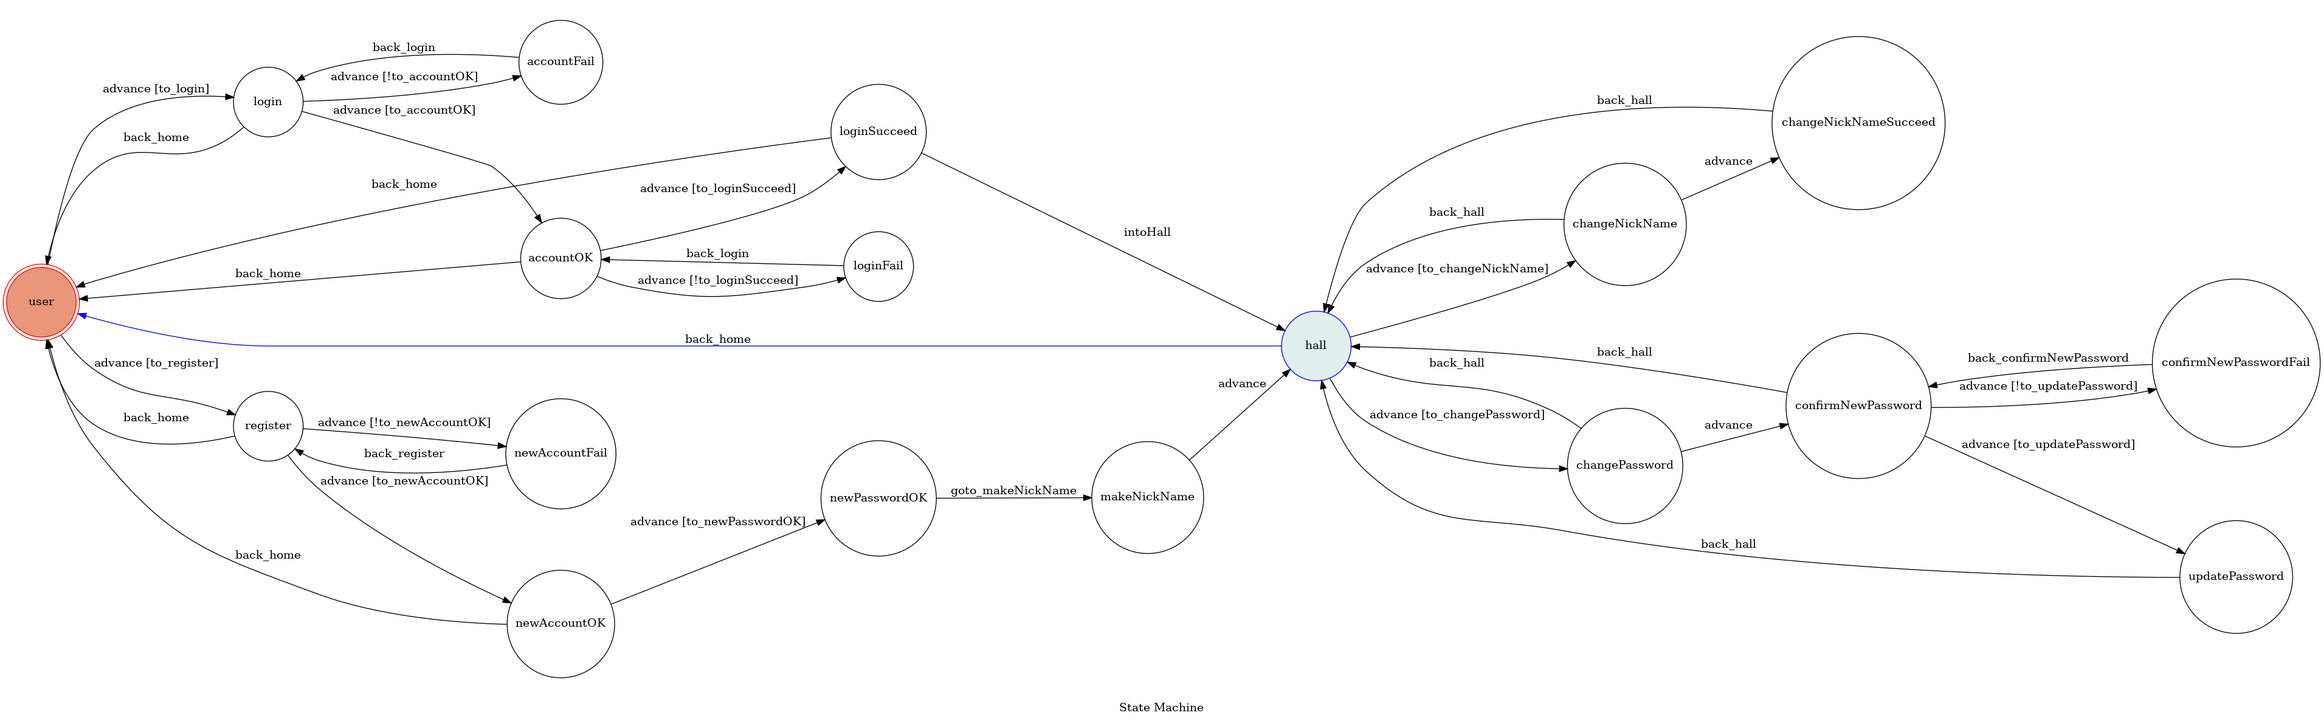
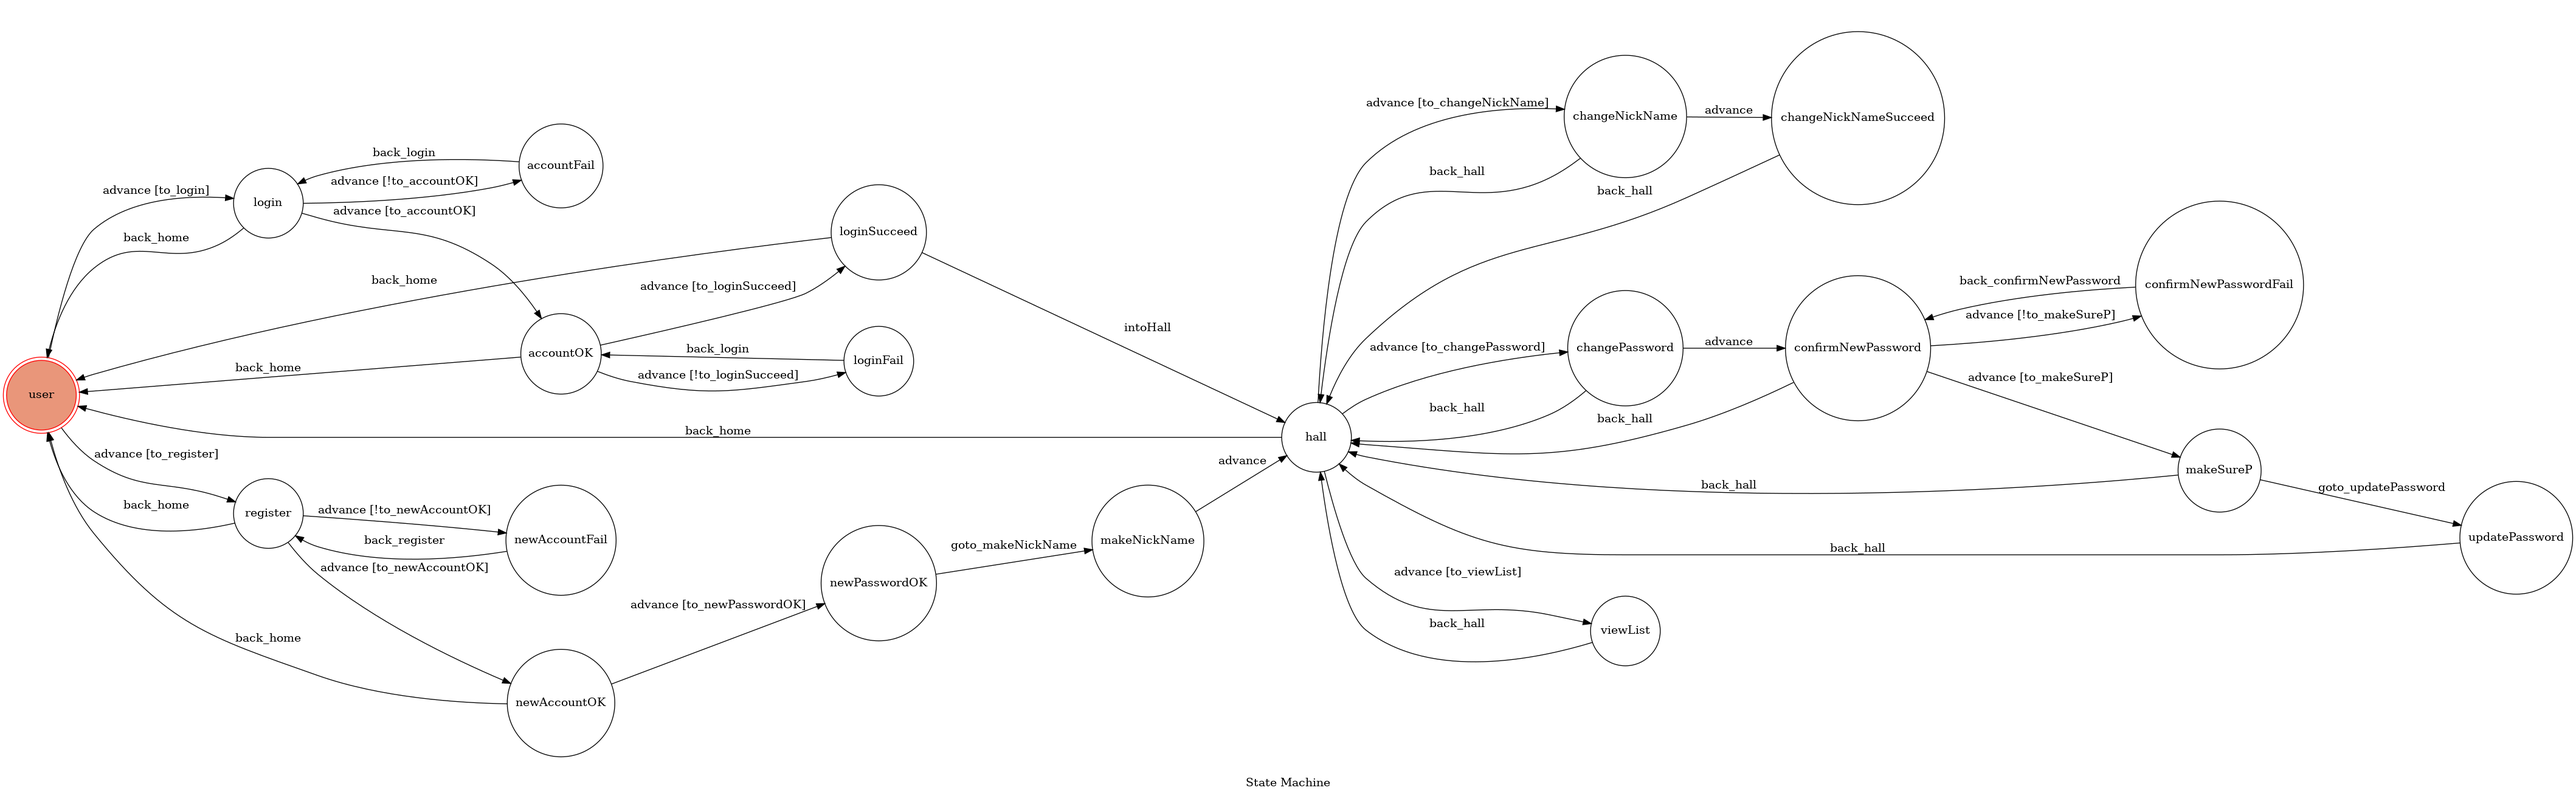
add book list

diff --git a/app.py b/app.py
@@ -1,7 +1,7 @@
 from bottle import route, run, request, abort, static_file
 
 from fsm import TocMachine
-from utils import send_text_message
+from utils import send_text_message, send_button_message, send_book_list
 
 
 VERIFY_TOKEN = "12399987"
@@ -23,8 +23,10 @@ machine = TocMachine(
         'changeNickNameSucceed',
         'changePassword',
         'confirmNewPassword',
+        'makeSureP',
         'updatePassword',
         'confirmNewPasswordFail',
+        'viewList',
     ],
     transitions=[
         {
@@ -46,9 +48,18 @@ machine = TocMachine(
                 'changeNickNameSucceed',
                 'changePassword',
                 'confirmNewPassword',
+                'makeSureP',
                 'updatePassword',
+                'viewList',
             ],
             'dest' : 'hall'
+        },
+        #-- view book list ------------
+        {
+            'trigger' : 'advance',
+            'source' : 'hall',
+            'dest' : 'viewList',
+            'conditions' : 'to_viewList'
         },
         #-- change password -----------
         {
@@ -66,19 +77,24 @@ machine = TocMachine(
         {
             'trigger' : 'advance',
             'source' : 'confirmNewPassword',
-            'dest' : 'updatePassword',
-            'conditions' : 'to_updatePassword'
+            'dest' : 'makeSureP',
+            'conditions' : 'to_makeSureP'
         },
         {
             'trigger' : 'advance',
             'source' : 'confirmNewPassword',
             'dest' : 'confirmNewPasswordFail',
-            'unless' : 'to_updatePassword'
+            'unless' : 'to_makeSureP'
         },
         {
             'trigger' : 'back_confirmNewPassword',
             'source' : 'confirmNewPasswordFail',
             'dest' : 'confirmNewPassword',
+        },
+        {
+            'trigger' : 'goto_updatePassword',
+            'source' : 'makeSureP',
+            'dest' : 'updatePassword',
         },
         #-- change nickname -----------
         {
@@ -207,9 +223,11 @@ def setup_webhook():
     else:
         abort(403)
 
-
+post_cnt = 0
 @route("/webhook", method="POST")
 def webhook_handler():
+    global post_cnt
+    post_cnt += 1
     body = request.json
     print('\nFSM STATE: ' + machine.state)
     print('REQUEST BODY: ')
@@ -217,24 +235,13 @@ def webhook_handler():
 
     if body['object'] == "page":
         event = body['entry'][0]['messaging'][0]
-        text = event['message']['text']
-        sender_id = event['sender']['id']
-        if text.lower() == '!state':
-            send_text_message(sender_id, 'FSM SATTE = ' + machine.state)
-        elif text.lower() == '!who' :
-            if(machine.account == "") :
-                send_text_message(sender_id, "* not login *")
-            else :
-                msg = "Hi, %s (%s)" % (machine.nickname, machine.account)
-                send_text_message(sender_id, msg)
-        elif text.lower() == '!home':
-            machine.back_home(event)
-        elif text.lower() == '!hall' :
-            machine.back_hall(event)
-        else:
-            machine.advance(event)
+        if 'postback' in event  :
+            handle_postback(event)
+        else :
+            handle_text(event)
+        
 
-        print("\n\n----***-------***-----***----***----***---\n\n")
+        print("\n\n----***-------***-----***----***----***---  %d\n\n" % (post_cnt))
         return 'OK'
 
 
@@ -242,6 +249,38 @@ def webhook_handler():
 def show_fsm():
     machine.get_graph().draw('fsm.png', prog='dot', format='png')
     return static_file('fsm.png', root='./', mimetype='image/png')
+
+
+def handle_text(event) :
+    text = event['message']['text']
+    sender_id = event['sender']['id']
+    if text.lower() == '!state':
+        send_text_message(sender_id, 'FSM SATTE = ' + machine.state)
+    elif text.lower() == '!who' :
+        if(machine.account == "") :
+            send_text_message(sender_id, "* not login *")
+        else :
+            msg = "Hi, %s (%s)" % (machine.nickname, machine.account)
+            send_text_message(sender_id, msg)
+    elif text.lower() == '!home':
+        machine.back_home(event)
+    elif text.lower() == '!hall' :
+        machine.back_hall(event)
+    elif text.lower() == '!list' :
+        send_book_list(sender_id)
+    else:
+        machine.advance(event)
+
+
+def handle_postback(event) :
+    payload = event['postback']['payload'].split("/")
+    if payload[0] == 'MSP' :
+        if payload[1] == 'Yes' :
+            machine.goto_updatePassword(event)
+        else :
+            machine.back_hall(event)
+    elif False:
+        pass
 
 
 if __name__ == "__main__":

diff --git a/utils.py b/utils.py
@@ -40,7 +40,69 @@ def send_image_url(id, img_url):
         print("Unable to send image: \n" + response.text)
     return response
 
-"""
+
 def send_button_message(id, text, buttons):
-    pass
-"""
+    url = "{0}/me/messages?access_token={1}".format(GRAPH_URL, ACCESS_TOKEN)
+    payload = {
+        "recipient" : {"id": id},
+        "message" : {
+            "attachment" : {
+                "type" : "template",
+                "payload" : {
+                    "template_type" : "button",
+                    "text" : text,
+                    "buttons" : buttons
+                }
+            }
+        }
+    }
+    response = requests.post(url, json=payload)
+    if response.status_code != 200:
+        print("Unable to send button: \n" + response.text)
+    return response
+
+def send_book_list(id) :
+    url = "{0}/me/messages?access_token={1}".format(GRAPH_URL, ACCESS_TOKEN)
+    payload = {
+        "recipient" : {"id":id},
+        "message" : {
+            "attachment" : {
+                "type" : "template",
+                "payload" : {
+                    "template_type": "list",
+                    "top_element_style": "large",
+                    "elements": [
+                        {
+                            "title" : "Recommend",
+                            "subtitle" : "books recommended for you ~",
+                            "image_url" : "https://i.imgur.com/gcUT5vZ.png",
+                        },
+                        {
+                            "title" : "果青",
+                            "subtitle" : "果然我的青春戀愛喜劇搞錯了",
+                            "image_url" : "https://i.imgur.com/bLyJEYK.jpg",
+                            "buttons" : [
+                                {
+                                    "type" : "postback",
+                                    "title" : "ADD",
+                                    "payload" : "VBL/hamachi"
+                                }
+                            ]
+                        },
+                    ],
+                    "buttons" : [
+                        {
+                            "type" : "postback",
+                            "title" : "view more",
+                            "payload" : "VBS/more"
+                        }
+                    ]
+                }
+            }
+        }
+    }
+    response = requests.post(url, json=payload)
+    if response.status_code != 200:
+        print("Unable to send list: \n" + response.text)
+    return response
+

diff --git a/fsm.py b/fsm.py
@@ -2,7 +2,7 @@ from transitions.extensions import GraphMachine
 import pymysql
 from dbHandler import DBHandler
 
-from utils import send_text_message, send_image_url
+from utils import send_text_message, send_image_url, send_button_message, send_book_list
 
 
 class TocMachine(GraphMachine):
@@ -89,9 +89,14 @@ class TocMachine(GraphMachine):
         if event.get("message"):
             self.newPassword = event['message']['text']
 
-    def to_updatePassword(self, event) :
+    def to_makeSureP(self, event) :
         if event.get("message"):
             return self.newPassword == event['message']['text']
+
+    def to_viewList(self, event) :
+        if event.get("message"):
+            text = event['message']['text']
+            return text.lower() == 'recommend'
 
 
 #----------------------------------------------------------------#
@@ -183,6 +188,24 @@ class TocMachine(GraphMachine):
         responese = send_text_message(sender_id, msg)
         self.back_confirmNewPassword(event)
 
+    def on_enter_makeSureP(self, event) :
+        sender_id = event['sender']['id']
+        text = "make sure change password"
+        buttons = [
+            {
+                "type" : "postback",
+                "title" : "Yes",
+                "payload" : "MSP/Yes"
+            },
+            {
+                "type" : "postback",
+                "title" : "No",
+                "payload" : "MSP/No"
+            }
+        ]
+        send_button_message(sender_id, text, buttons)
+        
+
     def on_enter_updatePassword(self, event) :
         db = self.accessDB()
         db.updatePassword(self.account, self.newPassword)
@@ -191,6 +214,9 @@ class TocMachine(GraphMachine):
         responese = send_text_message(sender_id, msg)
         self.back_hall(event)
 
+    def on_enter_viewList(self, event) :
+        sender_id = event['sender']['id']
+        send_book_list(sender_id)
     
 
 

diff --git a/README.md b/README.md
@@ -96,9 +96,14 @@ The initial state is set to `user`.
 
 * **confirmNewPassword**
 	* ask for input new password again 
-		* `if the user_input == new password` : go to state **updatePassword**
+		* `if the user_input == new password` : go to state **makeSureP**
 		* `else` : go to state **confirmNewPasswordFail** and reply "WRONG :(", 
 			       then go back state **confirmNewPassword**
+
+* **makeSureP**
+	* show buttons to user, and make sure that user wants to change password
+		* push "Yes" : go to state **updatePassword**
+		* push "No" : back to state **hall**
 
 * **updatePassword**
 	* update the new password into DB and back to state **hall**
